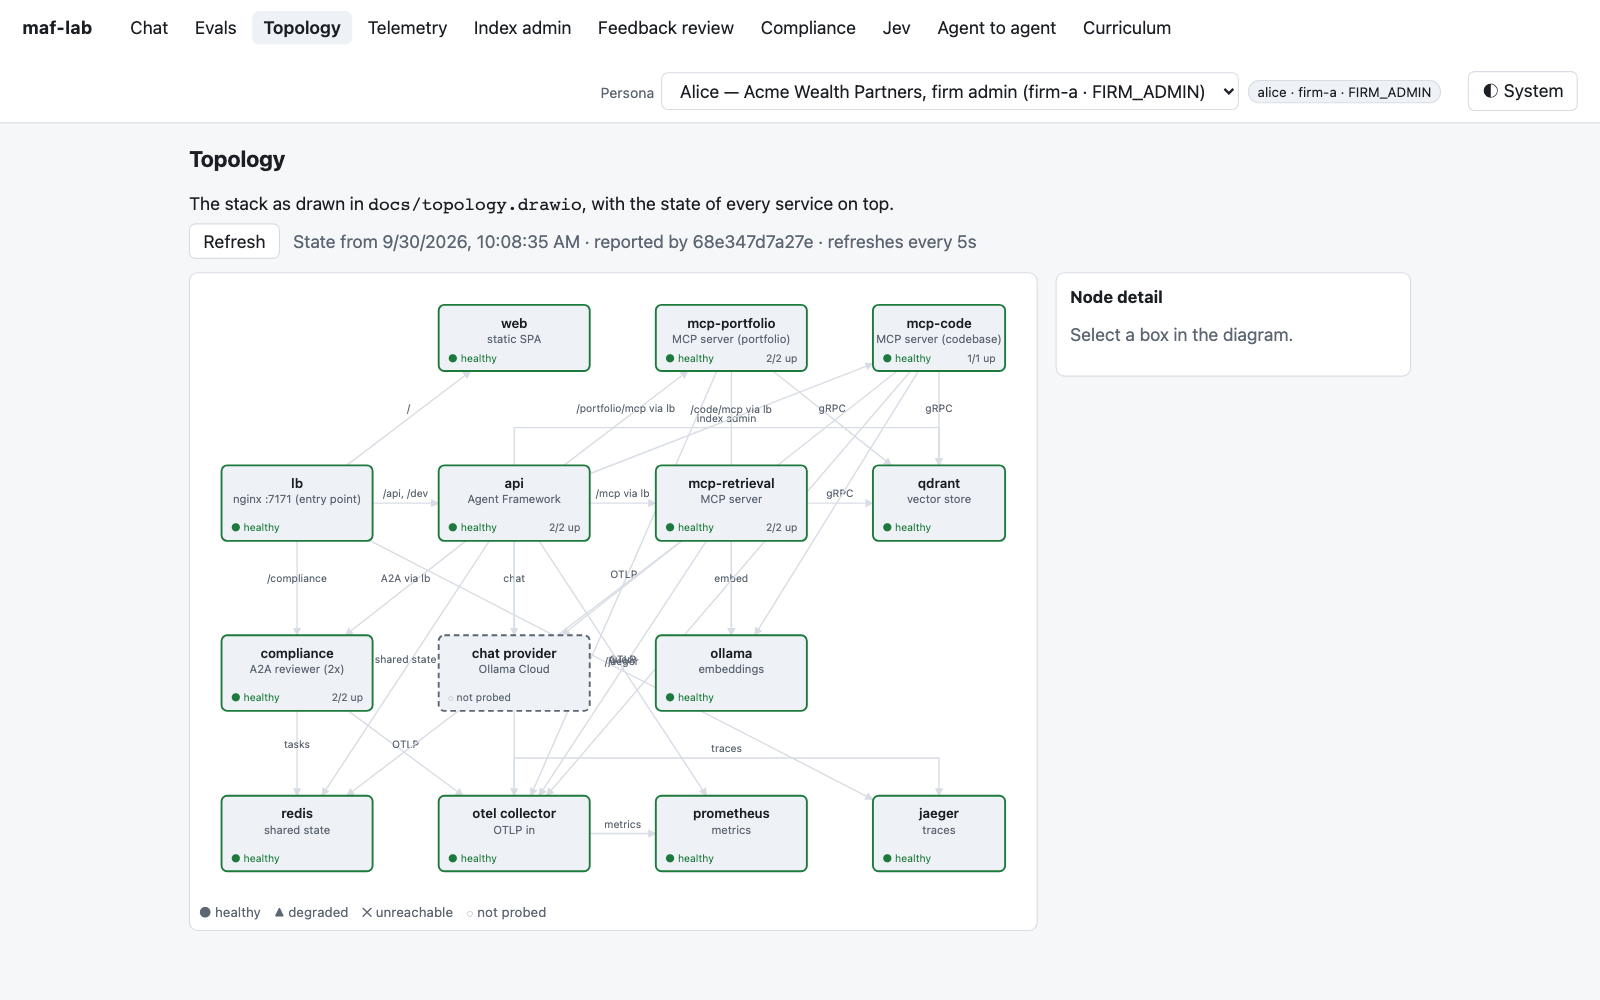
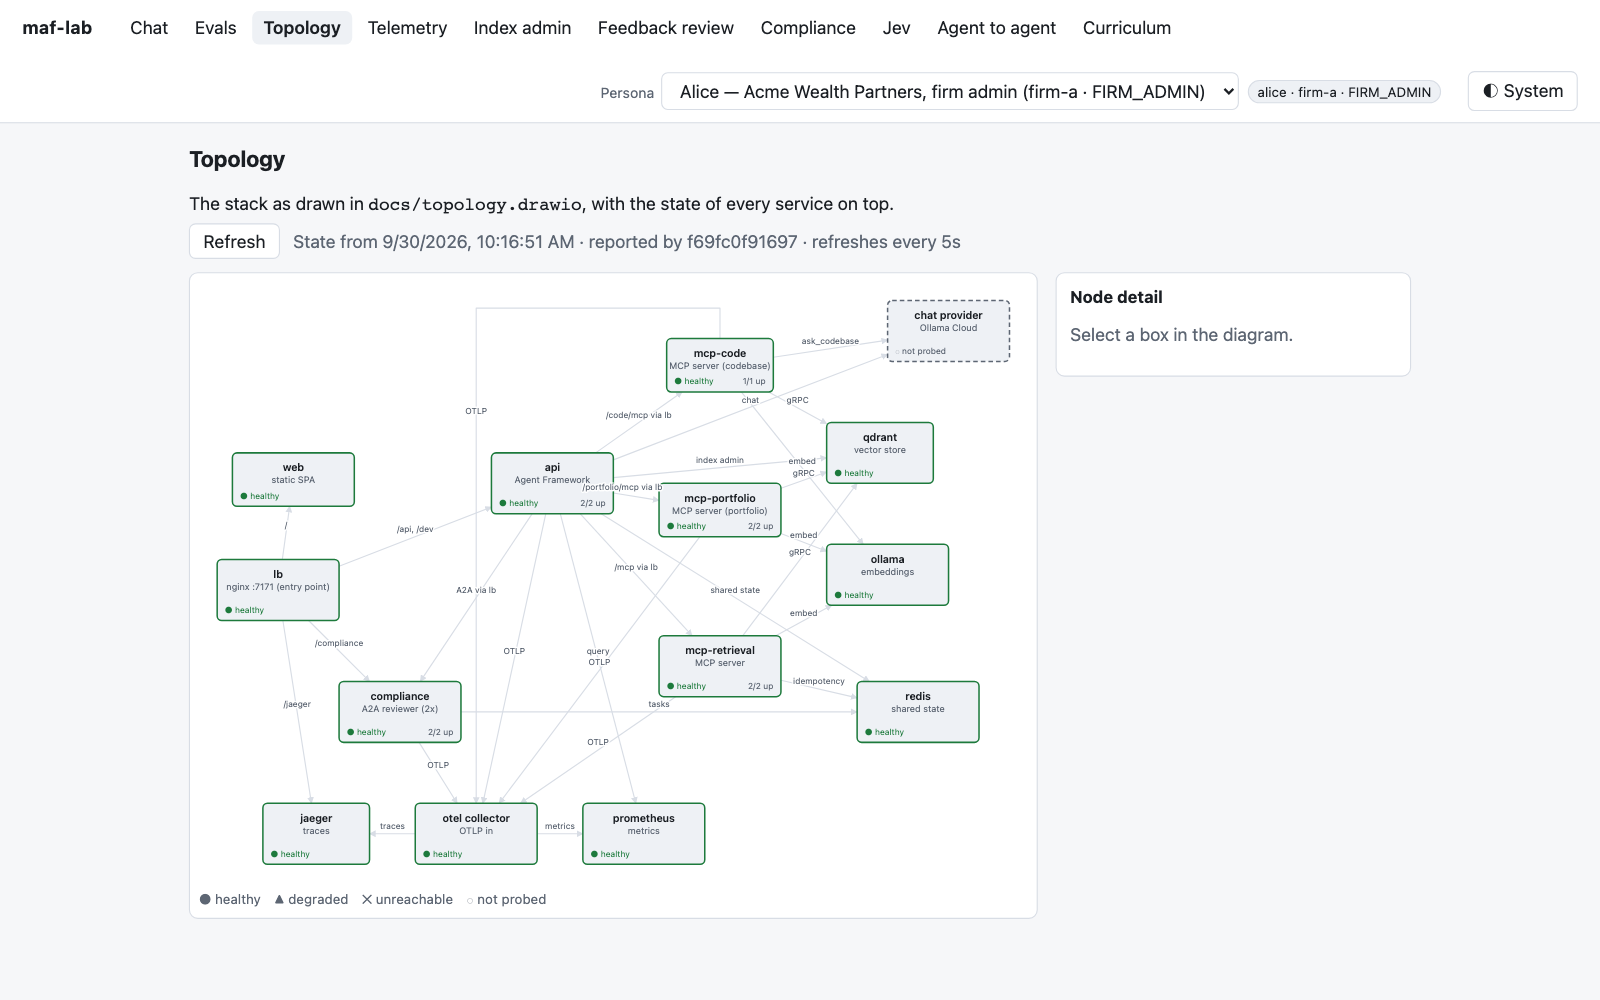
Make the topology diagram readable: placed labels, a layered layout
/topology drew every label at its line's midpoint with no background, so
labels landed on each other ("/jaeger" on "OTLP") and on lines, and the
layout ran 11 lines through boxes with 46 crossings.

- placeLabels puts each label at the first point along its own line
  (middle, then outwards) that overlaps no placed label and no box, or the
  least crowded one; labels get a halo in the canvas colour and are drawn
  above the boxes.
- docs/topology.drawio is laid out in layers (lb -> web/api/compliance ->
  the three MCP servers -> backing services, observability along the
  bottom), from a scored search with the renderer's own routing: 0 lines
  through boxes (was 11), 19 crossings (was 46), shorter in total.
- mcp-code's embed and OTLP labels are back; README screenshot re-taken.

diff --git a/web/src/topology/layout.ts b/web/src/topology/layout.ts
@@ -91,3 +91,84 @@ function crosses(p: Point, q: Point, box: DiagramNode): boolean {
     clip(-dx, p.x - left) && clip(dx, right - p.x) && clip(-dy, p.y - top) && clip(dy, bottom - p.y)
   );
 }
+
+/** Roughly how much room an 11px label takes: the renderer's font, measured once by eye and kept generous. */
+const CHAR_WIDTH = 6.2;
+const LABEL_HEIGHT = 14;
+/** The text sits this far above the point it is placed at, clear of the line. */
+const LABEL_RISE = 6;
+
+/** Where along its line a label may go, middle first, then out towards either end. */
+const STOPS = [0.5, 0.4, 0.6, 0.3, 0.7, 0.2, 0.8];
+
+type Rect = { left: number; top: number; right: number; bottom: number };
+
+/**
+ * Where each edge's label goes, given every edge's route.
+ *
+ * A label at its line's midpoint lands on another wherever two lines cross or run close, which is how "/jaeger" came
+ * to sit on "OTLP". So labels are placed one after another: each takes the first stop along its own line whose box
+ * overlaps no label already placed and no node, and the least crowded stop when none is free.
+ */
+export function placeLabels(
+  edges: { route: EdgeRoute; label: string }[],
+  nodes: DiagramNode[],
+): Point[] {
+  const boxes: Rect[] = nodes.map((n) => ({
+    left: n.x,
+    top: n.y,
+    right: n.x + n.width,
+    bottom: n.y + n.height,
+  }));
+  const placed: Rect[] = [];
+  return edges.map(({ route, label }) => {
+    if (!label) return route.label;
+    let best: { point: Point; rect: Rect; overlap: number } | null = null;
+    for (const stop of STOPS) {
+      const point = along(route.points, stop);
+      const rect = labelRect(point, label);
+      const overlap = [...placed, ...boxes].reduce((sum, other) => sum + area(rect, other), 0);
+      if (best === null || overlap < best.overlap) best = { point, rect, overlap };
+      if (overlap === 0) break;
+    }
+    placed.push(best!.rect);
+    return best!.point;
+  });
+}
+
+/** The label's box when its text is centred on `point` and raised above it, as the renderer draws it. */
+export function labelRect(point: Point, label: string): Rect {
+  const half = (label.length * CHAR_WIDTH) / 2 + 2;
+  const baseline = point.y - LABEL_RISE;
+  return {
+    left: point.x - half,
+    right: point.x + half,
+    top: baseline - LABEL_HEIGHT + 3,
+    bottom: baseline + 3,
+  };
+}
+
+function area(a: Rect, b: Rect): number {
+  const w = Math.min(a.right, b.right) - Math.max(a.left, b.left);
+  const h = Math.min(a.bottom, b.bottom) - Math.max(a.top, b.top);
+  return w > 0 && h > 0 ? w * h : 0;
+}
+
+/** The point at `fraction` of the polyline's length. */
+function along(points: Point[], fraction: number): Point {
+  const parts = segments(points).map(([p, q]) => ({
+    p,
+    q,
+    length: Math.hypot(q.x - p.x, q.y - p.y),
+  }));
+  const total = parts.reduce((sum, s) => sum + s.length, 0);
+  let left = total * fraction;
+  for (const { p, q, length } of parts) {
+    if (left <= length && length > 0) {
+      const t = left / length;
+      return { x: p.x + (q.x - p.x) * t, y: p.y + (q.y - p.y) * t };
+    }
+    left -= length;
+  }
+  return points[points.length - 1];
+}

diff --git a/web/src/topology/TopologyDiagram.tsx b/web/src/topology/TopologyDiagram.tsx
@@ -1,6 +1,6 @@
 import type { TopologyNode } from '../api/types';
 import { HEALTH_MARK } from './health';
-import { routeEdge } from './layout';
+import { placeLabels, routeEdge } from './layout';
 import type { Diagram } from './parseDiagram';
 import styles from './Topology.module.css';
 
@@ -13,6 +13,16 @@ type Props = {
 
 export function TopologyDiagram({ diagram, state, selected, onSelect }: Props) {
   const { extent } = diagram;
+  const routed = diagram.edges.map((edge) => {
+    const from = diagram.nodes.find((n) => n.id === edge.source)!;
+    const to = diagram.nodes.find((n) => n.id === edge.target)!;
+    return { edge, route: routeEdge(from, to, diagram.nodes) };
+  });
+  // Labels are placed together, so none lands on another where two lines cross.
+  const labels = placeLabels(
+    routed.map(({ edge, route }) => ({ route, label: edge.label })),
+    diagram.nodes,
+  );
   return (
     <svg
       className={styles.canvas}
@@ -33,25 +43,14 @@ export function TopologyDiagram({ diagram, state, selected, onSelect }: Props) {
           <path d="M 0 0 L 10 5 L 0 10 z" className={styles.arrowHead} />
         </marker>
       </defs>
-      {diagram.edges.map((edge) => {
-        const from = diagram.nodes.find((n) => n.id === edge.source)!;
-        const to = diagram.nodes.find((n) => n.id === edge.target)!;
-        const { points, label } = routeEdge(from, to, diagram.nodes);
-        return (
-          <g key={edge.id}>
-            <polyline
-              points={points.map((p) => `${p.x},${p.y}`).join(' ')}
-              className={styles.edge}
-              markerEnd="url(#arrow)"
-            />
-            {edge.label && (
-              <text x={label.x} y={label.y - 6} className={styles.edgeLabel} textAnchor="middle">
-                {edge.label}
-              </text>
-            )}
-          </g>
-        );
-      })}
+      {routed.map(({ edge, route }) => (
+        <polyline
+          key={edge.id}
+          points={route.points.map((p) => `${p.x},${p.y}`).join(' ')}
+          className={styles.edge}
+          markerEnd="url(#arrow)"
+        />
+      ))}
       {diagram.nodes.map((node) => {
         const live = state.get(node.id);
         const mark = HEALTH_MARK[live?.health ?? 'NotProbed'];
@@ -107,6 +106,20 @@ export function TopologyDiagram({ diagram, state, selected, onSelect }: Props) {
           </g>
         );
       })}
+      {/* Labels above the boxes: where a short line leaves no free spot, a label is still read rather than hidden. */}
+      {routed.map(({ edge }, index) =>
+        edge.label ? (
+          <text
+            key={edge.id}
+            x={labels[index].x}
+            y={labels[index].y - 6}
+            className={styles.edgeLabel}
+            textAnchor="middle"
+          >
+            {edge.label}
+          </text>
+        ) : null,
+      )}
     </svg>
   );
 }

diff --git a/web/src/topology/layout.test.ts b/web/src/topology/layout.test.ts
@@ -1,5 +1,5 @@
 import { describe, expect, it } from 'vitest';
-import { routeEdge } from './layout';
+import { labelRect, placeLabels, routeEdge } from './layout';
 import type { DiagramNode } from './parseDiagram';
 
 const box = (id: string, x: number, y: number): DiagramNode => ({
@@ -51,5 +51,49 @@ describe('routeEdge', () => {
 
     expect(label.y).toBeGreaterThan(api.y + api.height);
     expect(label.y).toBeLessThan(chat.y);
+  });
+});
+
+describe('placeLabels', () => {
+  const overlaps = (a: ReturnType<typeof labelRect>, b: ReturnType<typeof labelRect>) =>
+    Math.min(a.right, b.right) > Math.max(a.left, b.left) &&
+    Math.min(a.bottom, b.bottom) > Math.max(a.top, b.top);
+
+  it('moves apart two labels whose lines cross at their midpoints', () => {
+    // Two diagonals of one square cross in its middle, where both midpoints are.
+    const nodes = [box('a', 0, 0), box('b', 400, 300), box('c', 400, 0), box('d', 0, 300)];
+    const edges = [
+      { route: routeEdge(nodes[0], nodes[1], nodes), label: '/jaeger' },
+      { route: routeEdge(nodes[2], nodes[3], nodes), label: 'OTLP' },
+    ];
+
+    const [first, second] = placeLabels(edges, nodes);
+
+    expect(overlaps(labelRect(first, '/jaeger'), labelRect(second, 'OTLP'))).toBe(false);
+  });
+
+  it('keeps a label off a box beside the middle of its line', () => {
+    // A vertical line whose midpoint label would reach into the box standing next to it.
+    const top = box('top', 0, 0);
+    const bottom = box('bottom', 0, 400);
+    const beside = box('beside', 90, 220);
+    const nodes = [top, bottom, beside];
+    const route = routeEdge(top, bottom, [top, bottom]);
+
+    const [point] = placeLabels([{ route, label: 'gRPC' }], nodes);
+
+    const rect = labelRect(point, 'gRPC');
+    for (const n of nodes) {
+      const inside =
+        Math.min(rect.right, n.x + n.width) > Math.max(rect.left, n.x) &&
+        Math.min(rect.bottom, n.y + n.height) > Math.max(rect.top, n.y);
+      expect(inside, n.id).toBe(false);
+    }
+    expect(point).not.toEqual(route.label);
+  });
+
+  it('leaves an unlabelled edge where the route put it', () => {
+    const route = routeEdge(api, mcp, [api, mcp]);
+    expect(placeLabels([{ route, label: '' }], [api, mcp])).toEqual([route.label]);
   });
 });

diff --git a/web/src/topology/Topology.module.css b/web/src/topology/Topology.module.css
@@ -40,6 +40,11 @@
 .edgeLabel {
   fill: var(--muted);
   font-size: 11px;
+  /* A halo in the canvas colour, so a line passing under a label does not strike through it. */
+  stroke: var(--surface);
+  stroke-width: 4px;
+  stroke-linejoin: round;
+  paint-order: stroke;
 }
 
 .node {

diff --git a/openspec/changes/tidy-topology-diagram/specs/web-ui/spec.md b/openspec/changes/tidy-topology-diagram/specs/web-ui/spec.md
@@ -1,0 +1,36 @@
+## MODIFIED Requirements
+
+### Requirement: Topology screen
+The `/topology` screen SHALL render the drawn diagram of the stack with its live state on top. Each node SHALL show
+its health (healthy, degraded, unreachable) in a way that does not rely on colour alone, its replica instances, and
+the facts reported for it; each edge SHALL be drawn as the diagram draws it. Edge labels SHALL be legible: no label SHALL overlap another
+label or a node, and a label drawn over a line SHALL stay readable against it. The screen SHALL be reachable from the
+main navigation and open to any signed-in user.
+
+The screen SHALL refresh the state while it is open, SHALL say when the state was last refreshed, and SHALL offer a
+manual refresh. Selecting a node SHALL show its full reported detail. When the state cannot be loaded, the diagram
+SHALL still be shown, with an error telling the user the state is unknown rather than an empty screen.
+
+#### Scenario: Live state on the diagram
+- **WHEN** a signed-in user opens `/topology` with the stack running
+- **THEN** every node is drawn in its place and marked healthy, and api and the MCP server show their replicas
+
+#### Scenario: Labels stay apart
+- **WHEN** two edges' labels would sit in the same place, for example where two lines cross
+- **THEN** each label is moved along its own line until it overlaps no other label and no node
+
+#### Scenario: A service goes down while the page is open
+- **WHEN** a service stops and the page refreshes
+- **THEN** that node changes to unreachable with its reason, and the rest of the diagram is unchanged
+
+#### Scenario: Node detail
+- **WHEN** the user selects a node
+- **THEN** the screen shows everything reported for it, including instances, versions and facts
+
+#### Scenario: State cannot be loaded
+- **WHEN** the topology request fails
+- **THEN** the diagram is still rendered, with an error saying the live state is unavailable
+
+#### Scenario: Not signed in
+- **WHEN** no persona is selected
+- **THEN** the screen says a persona must be picked, as the other screens do

diff --git a/openspec/changes/tidy-topology-diagram/proposal.md b/openspec/changes/tidy-topology-diagram/proposal.md
@@ -1,0 +1,36 @@
+# Proposal
+
+## Why
+
+`/topology` is hard to read. Its 31 edges are straight lines between box centres, and the node layout makes many of
+them cross. Each label sits at the exact midpoint of its line, with no background and no knowledge of the others.
+So labels land on top of each other ("/jaeger" over "OTLP", "/code/mcp via lb" over "index admin", "embed" over
+"gRPC") and on top of lines. The page is the live picture of the stack, and it is also a README screenshot.
+
+## What Changes
+
+- **Labels are placed, not dropped at the midpoint.** After all edges are routed, each label is put at the first
+  point along its own line (the middle first, then further out on either side) where it overlaps no other label
+  and no box. If no such point exists, it goes where the overlap is smallest.
+- **Labels are readable over lines.** Each label gets a halo in the canvas colour, so a line passing under it does
+  not strike through the text. Labels are drawn above the boxes, so a label on a short line with no free spot,
+  such as api → mcp-portfolio, is still read instead of hidden.
+- **A cleaner layout in `docs/topology.drawio`.** Nodes are rearranged in layers: entry → application → the three
+  MCP servers → backing services, with observability along the bottom. The positions were chosen by scoring
+  candidate layouts on lines through boxes, crossings and length, using the renderer's own routing. Every node and
+  edge is kept, and so are the labels removed earlier for `mcp-code`.
+
+## Capabilities
+
+### New Capabilities
+<!-- None. -->
+
+### Modified Capabilities
+- `web-ui`: the Topology screen requirement adds legible, non-overlapping edge labels.
+
+## Impact
+
+- `web/src/topology/layout.ts` (a `placeLabels` step), `TopologyDiagram.tsx`, `Topology.module.css`, `layout.test.ts`.
+- `docs/topology.drawio` (x/y only, plus the two restored labels). The `No_two_boxes_in_the_diagram_overlap` and
+  node-set tests keep guarding the drawing.
+- The README topology screenshot is re-taken.

diff --git a/openspec/changes/tidy-topology-diagram/tasks.md b/openspec/changes/tidy-topology-diagram/tasks.md
@@ -1,0 +1,16 @@
+# Tasks
+
+## 1. Labels
+
+- [x] 1.1 Add `placeLabels` to `web/src/topology/layout.ts`. It takes every edge's route and label text, and gives each label the first point along its polyline (fractions 0.5, 0.4, 0.6, 0.3, 0.7, 0.2, 0.8 of its length) whose box overlaps no placed label and no node, or the least-overlapping point. Use it in `TopologyDiagram`. Verify: `layout.test.ts` covers two crossing edges whose midpoints coincide ending with disjoint labels, and a label that would sit on a box moving off it
+- [x] 1.2 Give edge labels a halo in the canvas colour (`paint-order: stroke`). Verify: labels read cleanly over lines in both themes on `/topology`
+
+## 2. Layout
+
+- [x] 2.1 Rearrange `docs/topology.drawio` in layers from a scored layout search, keep every node and edge, and restore the `embed` and `OTLP` labels on mcp-code's edges. Verify: the .NET diagram tests (same node set, no overlapping boxes) and `parseDiagram.test.ts` pass
+
+## 3. Verification
+
+- [x] 3.1 `make test-web`, `make lint-web` and the topology .NET tests pass
+- [x] 3.2 `/topology` shows no overlapping labels. Re-take the README image with `make screenshots SHOTS=topology`. Verify: inspect both theme captures
+- [x] 3.3 `openspec validate tidy-topology-diagram --strict` passes
